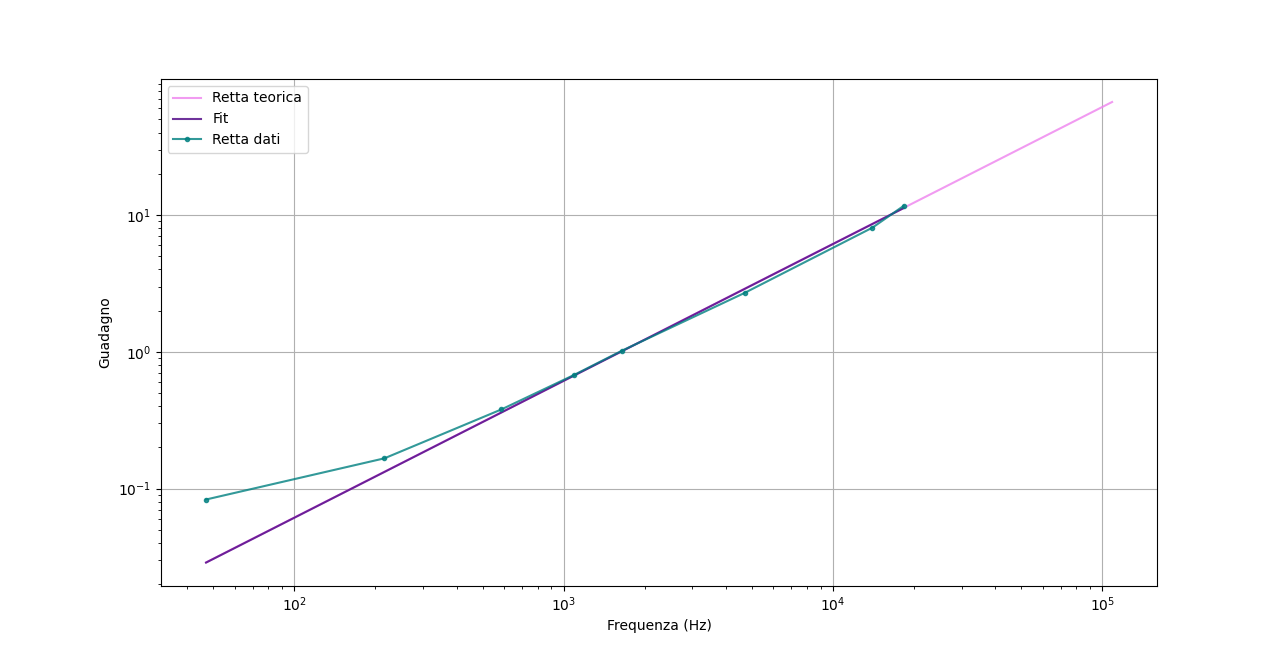
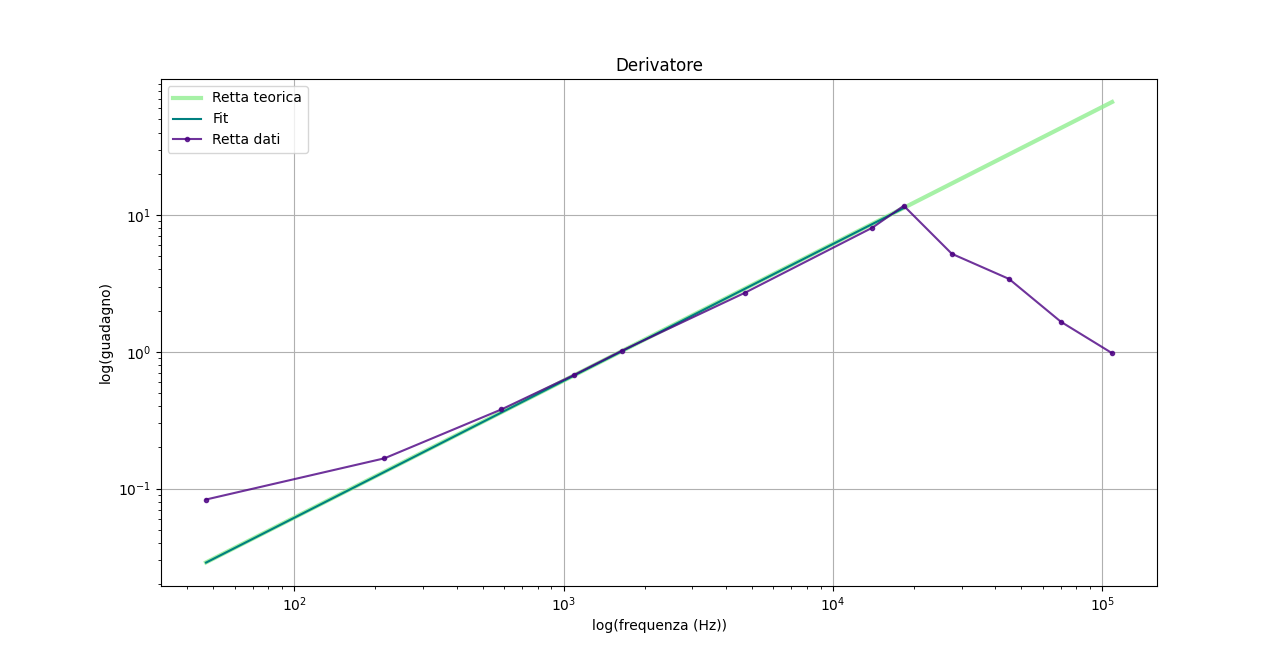
commit

diff --git a/esp1/cartella_dati/grafico_finale.py b/esp1/cartella_dati/grafico_finale.py
@@ -87,16 +87,19 @@ plt.show()
 
 #grafico tutti insieme invertente
 plt.errorbar(f22, guadagno22, xerr = f22_err, yerr = guadagno22_err, fmt = '-o', markersize = 3, color = 'firebrick', label = 'Invertente guadagno 1')
-plt.errorbar(f21, guadagno21, xerr = f21_err, yerr = guadagno21_err,fmt ='-o',  markersize = 3, color = 'coral', label =  'Invertente guadagno 2')
-plt.errorbar(f12, guadagno12, xerr = f12_err, yerr = guadagno12_err, fmt ='-o',  markersize = 3, color = 'peachpuff', label =  'Invertente guadagno 0.5')
+plt.errorbar(f21, guadagno21, xerr = f21_err, yerr = guadagno21_err,fmt ='-o',  markersize = 3, color = 'coral', label =  'Invertente guadagno 0.5')
+plt.errorbar(f12, guadagno12, xerr = f12_err, yerr = guadagno12_err, fmt ='-o',  markersize = 3, color = 'peachpuff', label =  'Invertente guadagno 2')
 plt.xscale('log')
+
 #plt.plot(f22, A22, color = 'palevioletred', alpha= 0.5)
 #plt.plot(f12, A12, color = 'teal', alpha = 0.5)
 #plt.plot(f21, A21, color = 'indigo', alpha = 0.5)
-plt.xlabel('Frequenza (Hz)')
-plt.ylabel('Guadagno')
+
+plt.xlabel('log(frequenza (Hz))')
+plt.ylabel('log(guadagno)')
 plt.yscale('log')
 plt.legend()
+plt.title('Invertente - Primo set')
 plt.grid()
 
 plt.show()
@@ -133,3 +136,4 @@ plt.show()
 print('parametri 100_200: ', par12)
 print('parametri 200_200: ', par22)
 print('parametri 200_100: ', par21)
+

diff --git a/esp1/cartella_dati/derivatore/der_100.py b/esp1/cartella_dati/derivatore/der_100.py
@@ -14,7 +14,7 @@ f  = np.array(der_100['FREQUENZE'])
 v_in =np.array(der_100['V_IN'])
 v_out = np.array(der_100['V_OUT'])
 
-f_err = np.array([1,10,10,10,10,10,10,10,100,100,100,100,100]) #risoluzione generatore segnale
+f_err = np.array([1,10,10,10,10,10,10,10,100,100,100,100]) #risoluzione generatore segnale
 v_in_err = np.full(len(v_in), 0.04) 
 v_out_err = np.full(len(v_out), 0.04)
 
@@ -68,16 +68,18 @@ par_err = np.sqrt(par_cov.diagonal())
 
 y=g(f[:8], par[0], par[1])
 
-plt.plot(f, guadagno_teor,color = 'violet',  label='Retta teorica', alpha = 0.8)
-plt.plot(f[:8], y, label='Fit', color = 'indigo', alpha = 0.8)
-plt.plot(f[:8], guadagno[:8], '-o',markersize = 3, color = 'teal', label='Retta dati', alpha = 0.8)
+plt.plot(f, guadagno_teor,color = 'lightgreen' , linewidth= 3, label='Retta teorica', alpha = 0.8)
+plt.plot(f[:8], y, label='Fit', color = 'teal')
+#plt.plot(f[:8], guadagno[:8], '-o',markersize = 3, color = 'seagreen', label='Retta dati', alpha = 0.8)
+plt.plot(f, guadagno, '-o',markersize = 3, color = 'indigo', linewidth= 1.5,label='Retta dati', alpha = 0.8)
 
 plt.legend()
 plt.grid()
-plt.xlabel('Frequenza (Hz)')
-plt.ylabel('Guadagno')
+plt.xlabel('log(frequenza (Hz))')
+plt.ylabel('log(guadagno)')
 plt.xscale('log')
 plt.yscale('log')
+plt.title('Derivatore')
 plt.show()
 
 print('parametri: ', par)

diff --git a/esp1/cartella_dati/invertente2/grafico_finale2.py b/esp1/cartella_dati/invertente2/grafico_finale2.py
@@ -56,9 +56,12 @@ guadagno12_err = np.sqrt(v12_out_err**2+v12_in_err**2*v12_out**2/(v12_in**2))/v1
 plt.errorbar(f22, guadagno22, yerr = guadagno22_err, fmt = '-o', markersize = 3, color = 'pink', label = 'Invertente guadagno 1')
 plt.errorbar(f21, guadagno21, yerr = guadagno21_err,fmt ='-o',  markersize = 3, color = 'lightseagreen', label =  'Invertente guadagno 2')
 plt.errorbar(f12, guadagno12, yerr = guadagno12_err, fmt ='-o',  markersize = 3, color = 'rebeccapurple', label =  'Invertente guadagno 0.5')
-plt.xscale('log')
+plt.xlabel('log(frequenza (Hz))')
+plt.ylabel('log(guadagno)')
 plt.yscale('log')
+plt.xscale('log')
 plt.legend()
+plt.title('Invertente - Secondo set')
 plt.grid()
 
 plt.show()
